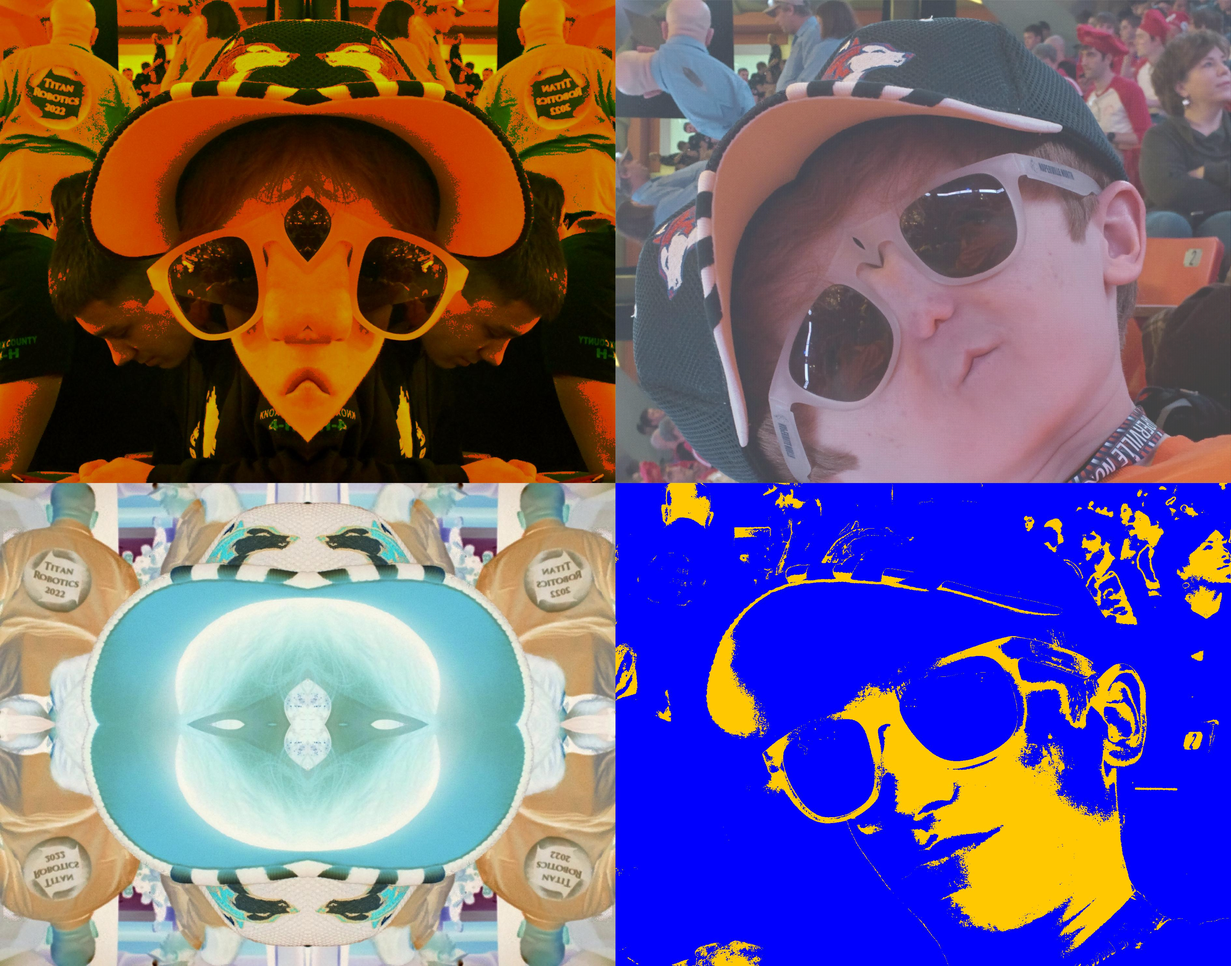
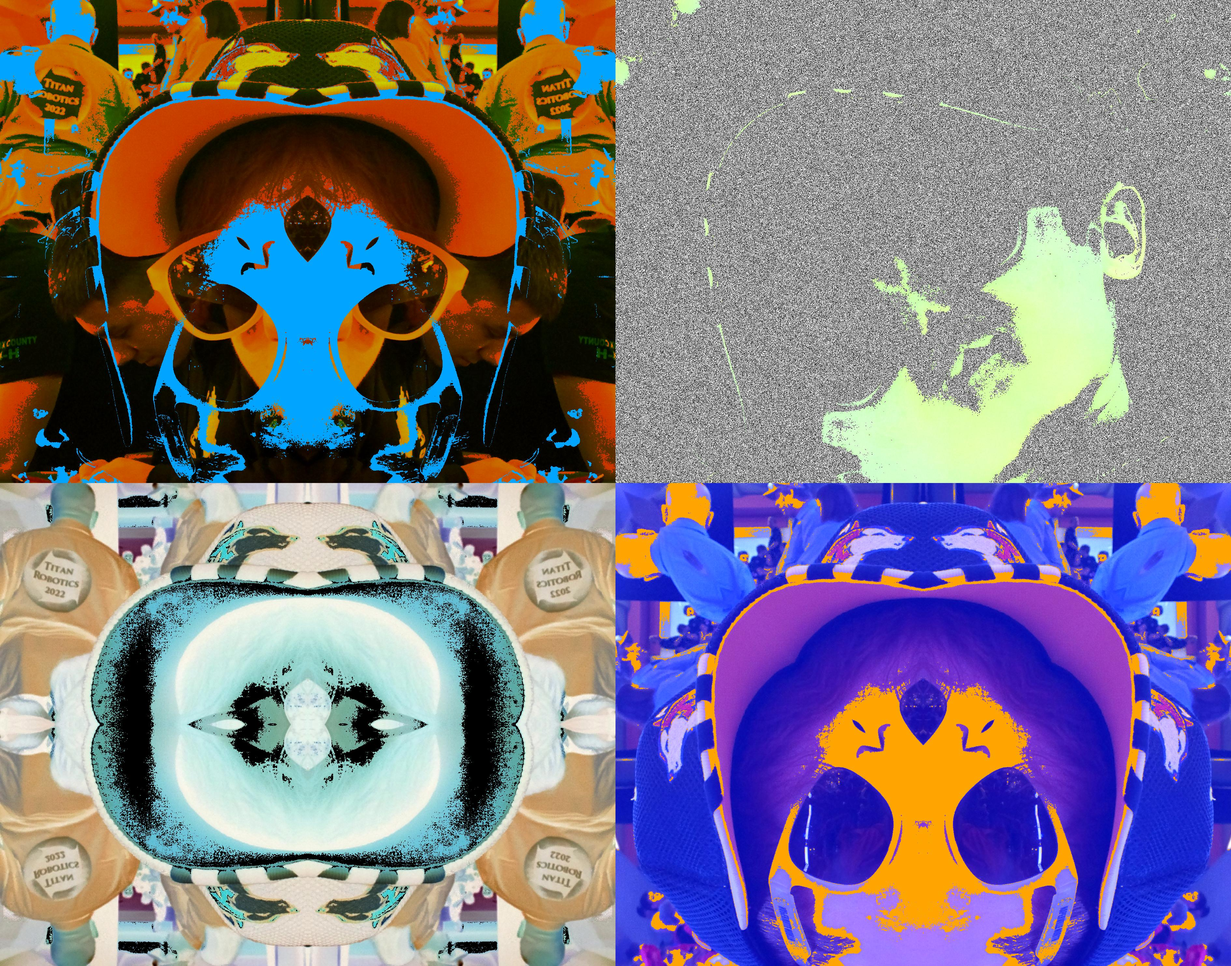
Almost Done

diff --git a/PictureLab/classes/Picture.java b/PictureLab/classes/Picture.java
@@ -383,10 +383,30 @@ public class Picture extends SimplePicture
         Picture busterboy2 = new Picture("bustaboy.jpg");
         Picture busterboy3 = new Picture("bustaboy.jpg");
         Picture busterboy4 = new Picture("bustaboy.jpg");
-        this.copy(busterboy,0,0);
-        this.copy(busterboy2,0,1890);
-        this.copy(busterboy3,1483,0);
-        this.copy(busterboy4,1483,1890);
+        
+        
+        busterboy4.mirrorDiagonal();
+        busterboy4.mirrorVertical();
+        Pixel[][] pixels4 = busterboy4.getPixels2D();
+        for(Pixel[] rowArray: pixels4)
+        {
+          for(Pixel pixelObj: rowArray)
+          {
+              if(pixelObj.getGreen() <= 137 && pixelObj.getGreen() >= 60
+                && pixelObj.getRed() <= 184 && pixelObj.getRed() >= 102
+                && pixelObj.getBlue() <= 142 && pixelObj.getBlue() >= 69)
+              {
+                  pixelObj.setRed(255);
+                  pixelObj.setGreen(165);
+                  pixelObj.setBlue(1);
+              }
+              else
+              {
+                  pixelObj.setBlue(pixelObj.getBlue() + 150);
+              }
+          }
+        }
+        
         busterboy.mirrorVertical();
         busterboy.zeroBlue();
         Pixel[][] pixels = busterboy.getPixels2D();
@@ -400,25 +420,93 @@ public class Picture extends SimplePicture
                 }
           }
         }
+        for(int i = 0; i < pixels4.length; i++)
+        {
+            for(int j = 0; j < pixels4[0].length; j++)
+            {
+                if(pixels4[i][j].getRed() == 255 && pixels4[i][j].getGreen() == 165 && pixels4[i][j].getBlue() == 1)
+                {
+                    pixels[i][j].setRed(1);
+                    pixels[i][j].setGreen(165);
+                    pixels[i][j].setBlue(255);
+                }
+            }
+        }
+        
+        Random rand1 = new Random(255);
+        Random rand2 = new Random(255);
+        Random rand3 = new Random(255);
         busterboy2.mirrorDiagonal();
-        //busterboy4.edgeDetection(10);
-        Pixel[][] pixels4 = busterboy4.getPixels2D();
-        for(Pixel[] rowArray: pixels4)
+        Pixel[][] pixels2 = busterboy2.getPixels2D();
+        for(Pixel[] rowArray: pixels2)
         {
           for(Pixel pixelObj: rowArray)
           {
-              if(pixelObj.getGreen() <= 137 && pixelObj.getGreen() >= 60
-                && pixelObj.getRed() <= 184 && pixelObj.getRed() >= 102
-                && pixelObj.getBlue() <= 142 && pixelObj.getBlue() >= 69)
+              int cor1 = rand1.nextInt();
+              int cor2 = rand2.nextInt();
+              int cor3 = rand3.nextInt();
+              if(pixelObj.getGreen() <= 130 && pixelObj.getGreen() >= 83)
               {
-                  pixelObj.setColor(Color.ORANGE);
+                  pixelObj.setGreen(pixelObj.getGreen() + 75);
               }
               else
               {
-                  pixelObj.setColor(Color.BLUE);
+                  pixelObj.setRed(cor1);
+                  pixelObj.setGreen(cor2);
+                  pixelObj.setBlue(cor3);
               }
           }
         }
+        for(Pixel[] rowArray: pixels2)
+        {
+          for(Pixel pixelObj: rowArray)
+          {
+              int cor1 = rand1.nextInt();
+              int cor2 = rand2.nextInt();
+              int cor3 = rand3.nextInt();
+              if(pixelObj.getRed() <= 193 && pixelObj.getRed() >= 152)
+              {
+                  pixelObj.setGreen(pixelObj.getGreen() + 75);
+              }
+               else
+              {
+                  pixelObj.setRed(cor1);
+                  pixelObj.setGreen(cor2);
+                  pixelObj.setBlue(cor3);
+              }
+          }
+        }
+        for(Pixel[] rowArray: pixels2)
+        {
+          for(Pixel pixelObj: rowArray)
+          {
+              int cor1 = rand1.nextInt();
+              int cor2 = rand2.nextInt();
+              int cor3 = rand3.nextInt();
+              if(pixelObj.getBlue() <= 159 && pixelObj.getBlue() >= 111)
+              {
+                  pixelObj.setGreen(pixelObj.getGreen() + 75);
+              }
+               else
+              {
+                  pixelObj.setRed(cor1);
+                  pixelObj.setGreen(cor2);
+                  pixelObj.setBlue(cor3);
+              }
+          }
+        }
+        for(Pixel[] rowArray: pixels2)
+        {
+            for(Pixel pixelObj: rowArray)
+            {
+                pixelObj.setRed(pixelObj.getRed() + 50);
+                pixelObj.setGreen(pixelObj.getGreen() + 50);
+                pixelObj.setBlue(pixelObj.getBlue() + 50);
+            }
+        }
+        
+        busterboy3.mirrorHorizontal();
+        busterboy3.mirrorVertical();
         Pixel[][] pixels3 = busterboy3.getPixels2D();
         for(Pixel[] rowArray: pixels3)
         {
@@ -429,23 +517,25 @@ public class Picture extends SimplePicture
               pixelObj.setRed(255 - pixelObj.getRed());
           }
         }
-        busterboy3.mirrorHorizontal();
-        busterboy3.mirrorVertical();
-        Pixel[][] pixels2 = busterboy2.getPixels2D();
-        for(int i = 0; i < pixels2.length; i+=2)
+        for(int i = 0; i < pixels3.length; i++)
         {
-            for(int j = 0; j < pixels2[0].length; j+=2)
+            for(int j = 0; j < pixels3[0].length; j++)
             {
-                pixels2[i][j].setColor(Color.WHITE);
+                if(pixels3[i][j].getGreen() <= 200 && pixels3[i][j].getGreen() >= 171
+                    && pixels3[i][j].getRed() <= 136 && pixels3[i][j].getRed() >= 98
+                    && pixels3[i][j].getBlue() <= 211 && pixels3[i][j].getBlue() >= 162)
+                {
+                    pixels3[i][j].setColor(Color.BLACK);
+                }
             }
         }
         
+        
         //3780x2966
-        //this.copy(kamen,0,400);
-        //this.copy(kamen,400,0);
-        //busterboy.zeroBlue();
-        //this.mirrorHorizontal();
-        //this.mirrorVertical();
+        this.copy(busterboy,0,0);
+        this.copy(busterboy2,0,1890);
+        this.copy(busterboy3,1483,0);
+        this.copy(busterboy4,1483,1890);
         
         this.write("collagelab.jpg");
     }
